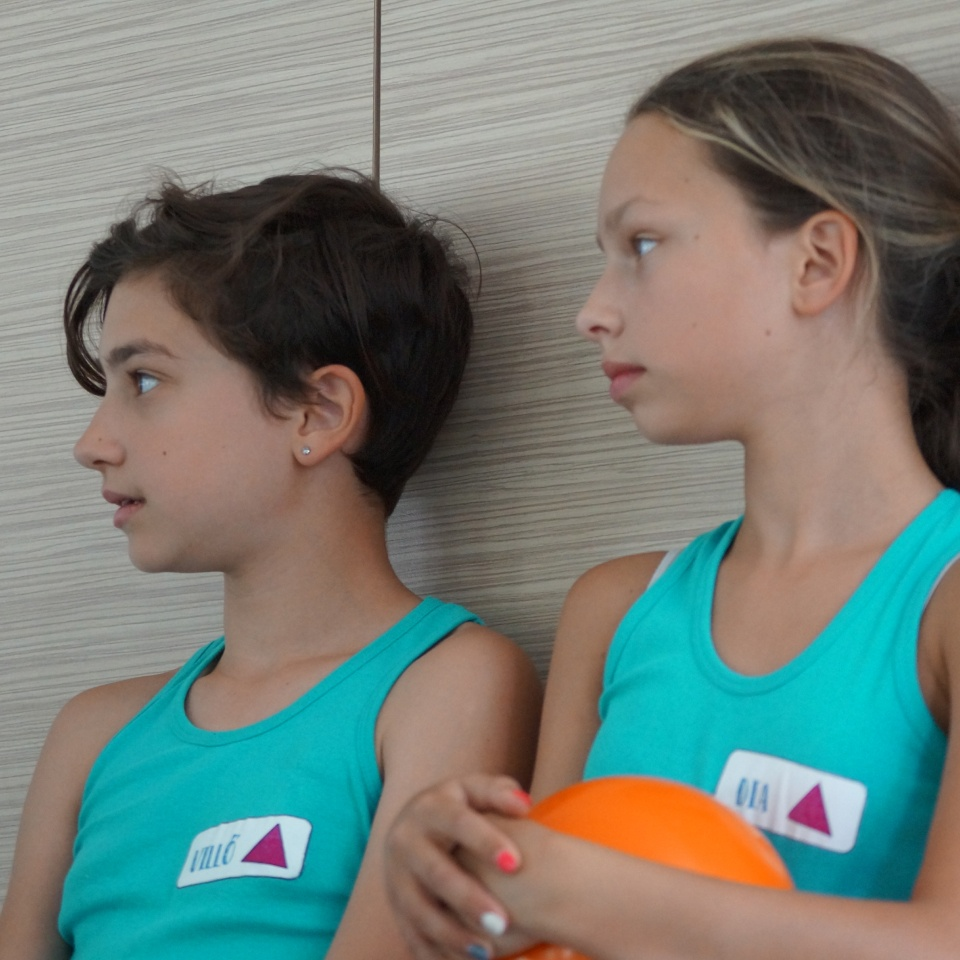
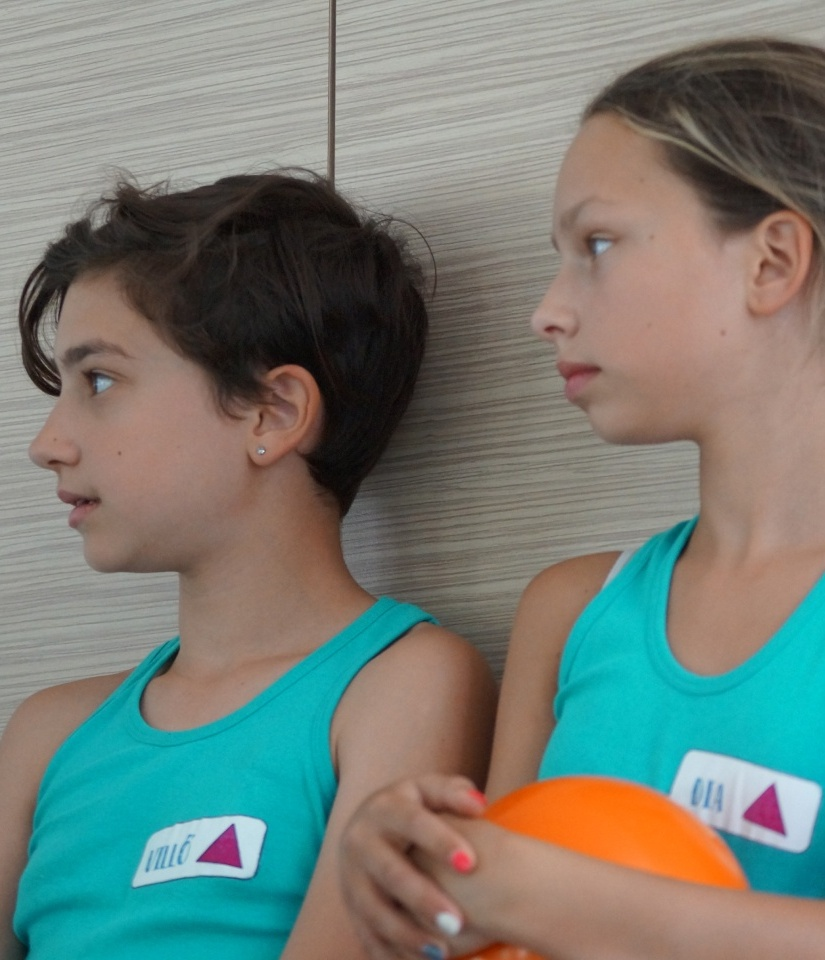
modify camp pics/position

diff --git a/src/assets/css/programPage.module.css b/src/assets/css/programPage.module.css
@@ -216,6 +216,9 @@
   max-width: 50vw;
   min-width: 50vw;
 }
+.camp-row-details + .camp-row-image {
+  object-position: left;
+}
 .camp-row-image.cover {
   max-width: 100vw;
   min-width: 100vw;
